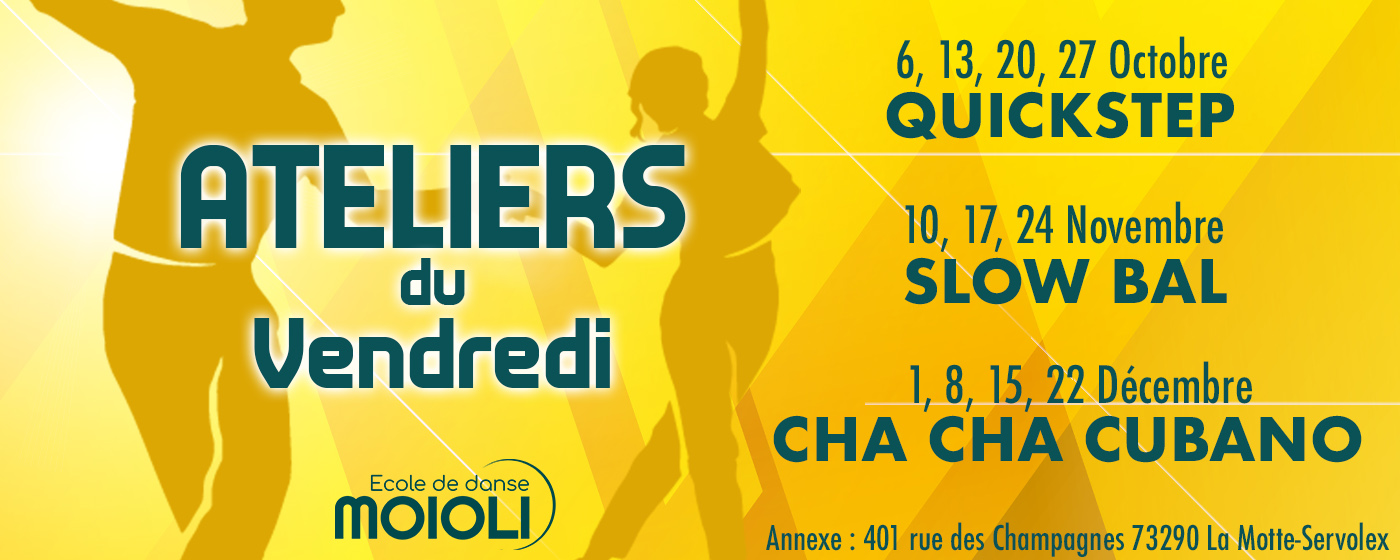
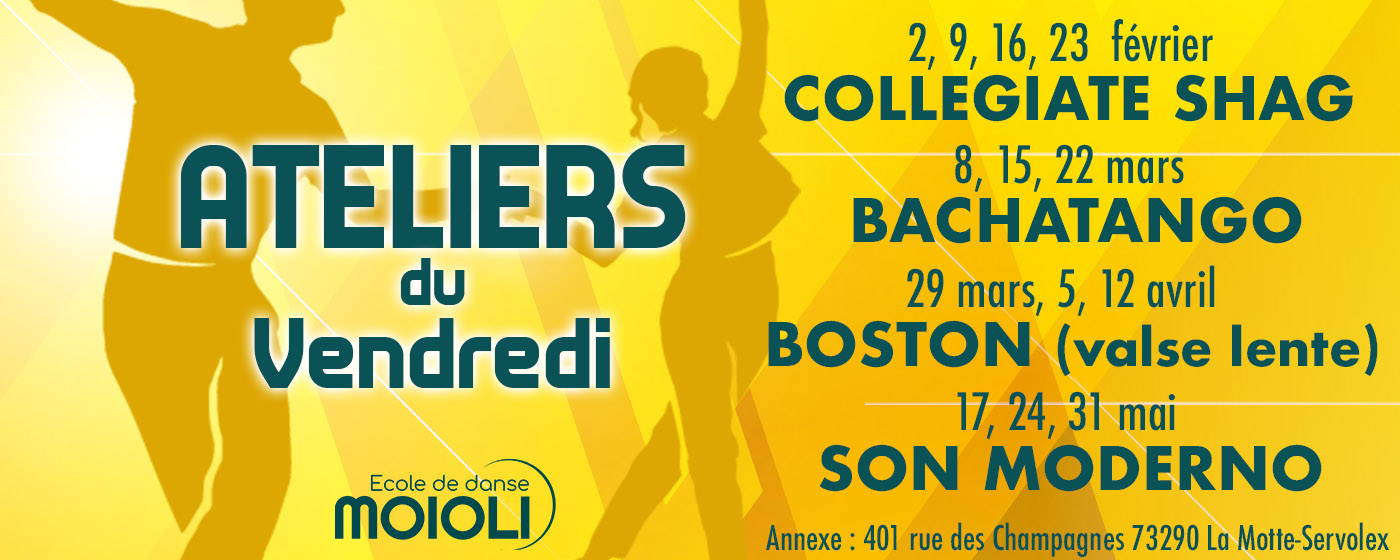
Maj ateliers

Changed region(s): [[0.5529, 0.0304, 0.9829, 0.5464], [0.5221, 0.5768, 0.9829, 0.8804]]

diff --git a/cours/ateliers.html b/cours/ateliers.html
@@ -28,50 +28,66 @@ description: "L'école de danse Moioli propose des ateliers à thème."
 </div>
 <div class="row">
   <div class="col-12">
-    <h3>Planning octobre - novembre - décembre 2023</h3>
+    <h3>Planning Février à Juin 2024</h3>
       <div class="card mb-4 shadow-sm border-light">
 
         <div class="card-header">
-          <h4 class="my-0 font-weight-normal">QUICKSTEP</h4>
+          <h4 class="my-0 font-weight-normal">COLLEGIATE SHAG</h4>
         </div>
         <div class="card-body">
           <div class="text-muted">
             <div class="float-end">40 € / personne (les 4 cours)</div>
-          6 - 13 - 20 - 27 octobre 2023 de 20h à 21h
+          2 - 9 - 16 - 23 février 2024 de 20h à 21h
           </div>
-          <p class="mb-0"><i>(danse en couple)</i><br>Découvrez ou venez peaufinnez vos fondamentaux de cette danse de salon incontournable, caractérisée par des grands pas rapides, sautillants et enjoués sur la piste de danse.<br>
-            Pratiquée aujourd'hui, principalement comme l'une des cinq danses standard de la danse sportive, vous la retrouverez également régulièrement lors des soirées toutes danses.<br>
-          <div class="float-end"><a class="btn btn-secondary" href="https://forms.gle/5nBE4CbRa4D8GnNv7" target="_blank">Inscription</a></div>
+          <p class="mb-0"><i>(danse en couple)</i><br>Plongez dans l'univers vibrant du Collegiate Shag, une danse qui vous transporte dans l'énergie effervescente des années 1930 ! Laissez-vous emporter par des mouvements rapides, des sauts joyeux et une ambiance festive.<br>
+          Que vous soyez novice ou danseur expérimenté, cette expérience dynamique sur la piste de danse vous promet des moments inoubliables et une connexion unique avec la musique swing.<br>
+          <a href="https://www.youtube.com/watch?v=BVV7Jydg4sI" target="_blank">Le Collegiate Shag en vidéo</a>
+          <div class="float-end"><a class="btn btn-secondary" href="https://forms.gle/XB4k6moL2ACJh3vG9" target="_blank">Inscription</a></div>
         </div>
 
         <div class="card-header">
-          <h4 class="my-0 font-weight-normal">SLOW BAL</h4>
+          <h4 class="my-0 font-weight-normal">BACHATANGO</h4>
         </div>
         <div class="card-body">
           <div class="text-muted">
             <div class="float-end">30 € / personne (les 3 cours)</div>
-            10 - 17 - 24 novembre 2023 de 20h à 21h
+          8 - 15 - 22 mars 2024 de 20h à 21h
           </div>
-          <p class="mb-0"><i>(danse en couple)</i><br>Vous aimez le swing ? vous vous demandez comment danser sur ces belles musiques jazz lentes ?<br>
-            Alors vous ne manquerez pas d’apprécier la finesse et l’élégance du Slow bal ou Slow balboa.<br>
-            Cet atelier est l’occasion de faire un nouveau pas dans l’univers du swing. Aucun pré-requis pour cet atelier ouvert à tous ceux qui aiment simplement danser à deux.<br>
-          <a href="https://www.youtube.com/watch?v=Pz8Ze-Nn4Yo&t=57s" target="_blank">Le slow balboa en vidéo</a> </p>
-          <div class="float-end"><a class="btn btn-secondary" href="https://forms.gle/Yx4xf1WexgzTEerz6" target="_blank">Inscription</a></div>
+          <p class="mb-0"><i>(danse en couple)</i><br>Le bachatatango est la fusion des mouvements fluides de la bachata avec la passion et les figures dynamiques du tango.<br>
+            Laissez-vous emporter par la musicalité envoûtante, les jeux de pieds élégants et l'intimité partagée sur la piste de danse. <br>
+            Osez découvrir cette fusion exquise qui éveillera vos sens et vous transportera dans un tourbillon de grâce et de passion !<br>
+            <a href="https://www.youtube.com/watch?v=QL1rNfttIB4" target="_blank">La Bachatango en vidéo</a>
+          <div class="float-end"><a class="btn btn-secondary" href="https://forms.gle/uAHzRu4ihCGrQnXt8" target="_blank">Inscription</a></div>
         </div>
 
         <div class="card-header">
-          <h4 class="my-0 font-weight-normal">CHA CHA CUBANO</h4>
+          <h4 class="my-0 font-weight-normal">BOSTON (Valse lente)</h4>
         </div>
         <div class="card-body">
           <div class="text-muted">
-            <div class="float-end">40 € / personne (les 4 cours)</div>
-            1 - 8 - 15 - 22 décembre 2023 de 20h à 21h
+            <div class="float-end">30 € / personne (les 3 cours)</div>
+            29 mars - 5 - 12 avril 2024 de 20h à 21h
           </div>
-          <p class="mb-0"><i>(danse en couple)</i><br>Apprennez a danser le Cha-cha dans sa version authentique et laisser vous porter par ces rythmes cubains.<br>
-            Cet atelier vous permettra d’approfondir vos connaissances de la culture cubaine et découvrir ou redécouvrir une danse sociale qui remplira à merveille vos soirées latinos.<br>
-            Attention pour suivre cet atelier les bases de salsa ou de cha cha (version salon) sont nécessaires.
-          <a href="https://www.youtube.com/watch?v=ZXKNaDGOjWo" target="_blank">Le Cha cha cubain en vidéo</a> </p>
-          <div class="float-end"><a class="btn btn-secondary" href="https://forms.gle/1W6d6EPAe9F8C1QZA" target="_blank">Inscription</a></div>
+          <p class="mb-0"><i>(danse en couple)</i><br>Le Boston est une danse apparue vers 1880 aux États-Unis.<br>
+            Elle se danse sur un tempo lent à trois temps comme la valse lente, mais se différenciera nottaement de cette dernière par les nombreuse possibilités de figures en position ouverte qu'elle propose.<br>
+            Cet atelier permettra aux danseurs plus ou moins aguéris en Valse lente de multiplier les possibilités de variations lors de vos soirées.<br>
+            Si vous débutez pas de panique, l'atelier vous donnera les bases pour évoluer sereinement sur la piste.
+          </p>
+          <div class="float-end"><a class="btn btn-secondary" href="https://forms.gle/ByJYgQvEmjB4MACv7" target="_blank">Inscription</a></div>
+        </div>
+
+        <div class="card-header">
+          <h4 class="my-0 font-weight-normal">SON MODERNO</h4>
+        </div>
+        <div class="card-body">
+          <div class="text-muted">
+            <div class="float-end">30 € / personne (les 3 cours)</div>
+            17 - 24 - 31 mai 2024 de 20h à 21h
+          </div>
+          <p class="mb-0"><i>(danse en couple)</i><br>Le "SON MODERNO", conçu par les danseurs cubains Danger Rodriguez et Yunaisy Farray, représente une approche novatrice de l'interprétation du Son traditionnel et de la musique cubaine.<br>
+            Cette danse, influencée par diverses danses latines et caribéennes comme le merengue, le cha-cha-cha et le tango, élargit les horizons de l'interprétation du Son sur la piste, enrichissant ainsi le répertoire technique du danseur.<br>
+          <a href="https://https://www.youtube.com/watch?v=0SoqGLqRcEw" target="_blank">Le Son moderno en vidéo</a> </p>
+          <div class="float-end"><a class="btn btn-secondary" href="https://forms.gle/jek9D2ctYeS9pMBPA" target="_blank">Inscription</a></div>
         </div>
 
       </div>
